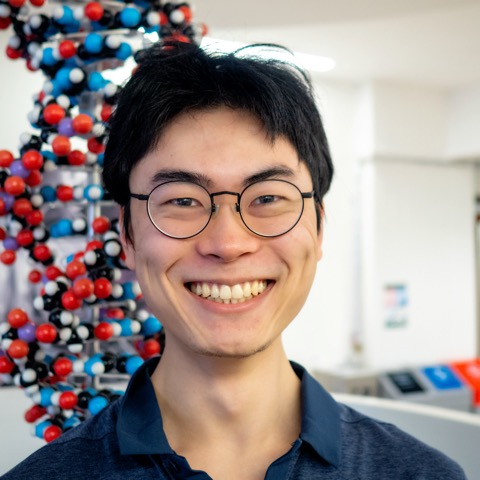
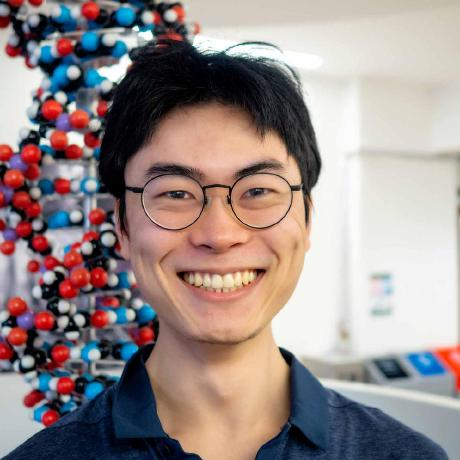
Add PhD, Forbes 30u30, update photo and ISC entry
- Add PhD suffix to name across title, meta, sidebar and hero
- Replace profile photo with GitHub avatar
- Remove ISC hyperlink; show Charity number: 1123736 instead
- Add Forbes 30 Under 30 (2026) as top award

diff --git a/index.html b/index.html
@@ -5,16 +5,16 @@
 -->
 <html lang="en">
 	<head>
-		<title>Yizhou Yu — Scientist &amp; Entrepreneur</title>
+		<title>Yizhou Yu, PhD — Scientist &amp; Entrepreneur</title>
 		<meta charset="utf-8" />
 		<meta name="viewport" content="width=device-width, initial-scale=1" />
-		<meta name="description" content="Yizhou Yu is a researcher at the University of Cambridge using single-cell and spatial transcriptomics to study autoimmune and neurodegenerative disease, and the founder of OneCarbon, a Cambridge spin-out developing probiotics for cognitive health." />
+		<meta name="description" content="Yizhou Yu, PhD is a researcher at the University of Cambridge using single-cell and spatial transcriptomics to study autoimmune and neurodegenerative disease, and the founder of OneCarbon, a Cambridge spin-out developing probiotics for cognitive health." />
 		<meta name="author" content="Yizhou Yu" />
 		<meta name="theme-color" content="#222629" />
 
 		<!-- Open Graph / social sharing -->
 		<meta property="og:type" content="website" />
-		<meta property="og:title" content="Yizhou Yu — Scientist &amp; Entrepreneur" />
+		<meta property="og:title" content="Yizhou Yu, PhD — Scientist &amp; Entrepreneur" />
 		<meta property="og:description" content="Researcher at the University of Cambridge studying autoimmune and neurodegenerative disease, and founder of OneCarbon." />
 		<meta property="og:image" content="https://www.yizhouyu.com/images/avatar.jpg" />
 		<meta property="og:url" content="https://www.yizhouyu.com/" />
@@ -39,7 +39,7 @@
 							<span class="image avatar">
 								<img src="images/avatar.jpg" alt="Portrait of Yizhou Yu" />
 							</span>
-							<h1 id="title">Yizhou Yu</h1>
+							<h1 id="title">Yizhou Yu, PhD</h1>
 							<p>Scientist &amp; Entrepreneur</p>
 						</div>
 
@@ -82,7 +82,7 @@
 						<div class="container">
 
 							<header>
-								<h2 class="alt">Hi! I'm <strong>Yizhou Yu</strong></h2>
+								<h2 class="alt">Hi! I'm <strong>Yizhou Yu, PhD</strong></h2>
 								<p>
 									Computational biologist at the University of Cambridge, using AI and
 									single-cell genomics to understand disease.
@@ -238,8 +238,7 @@
 							</header>
 
 							<p>
-								I co-founded the
-								<a href="https://www.internationalsleepcharity.org/">International Sleep Charity</a>,
+								I co-founded the International Sleep Charity (Charity number: 1123736),
 								where I research the causes of poor sleep and develop ways to help people sleep better.
 							</p>
 
@@ -282,6 +281,10 @@
 							</header>
 
 							<ul class="awards">
+								<li>
+									<h3>Forbes 30 Under 30</h3>
+									<p>2026</p>
+								</li>
 								<li>
 									<h3>Trinity Bradfield Prize</h3>
 									<p>2025 — on behalf of the OneCarbon team</p>